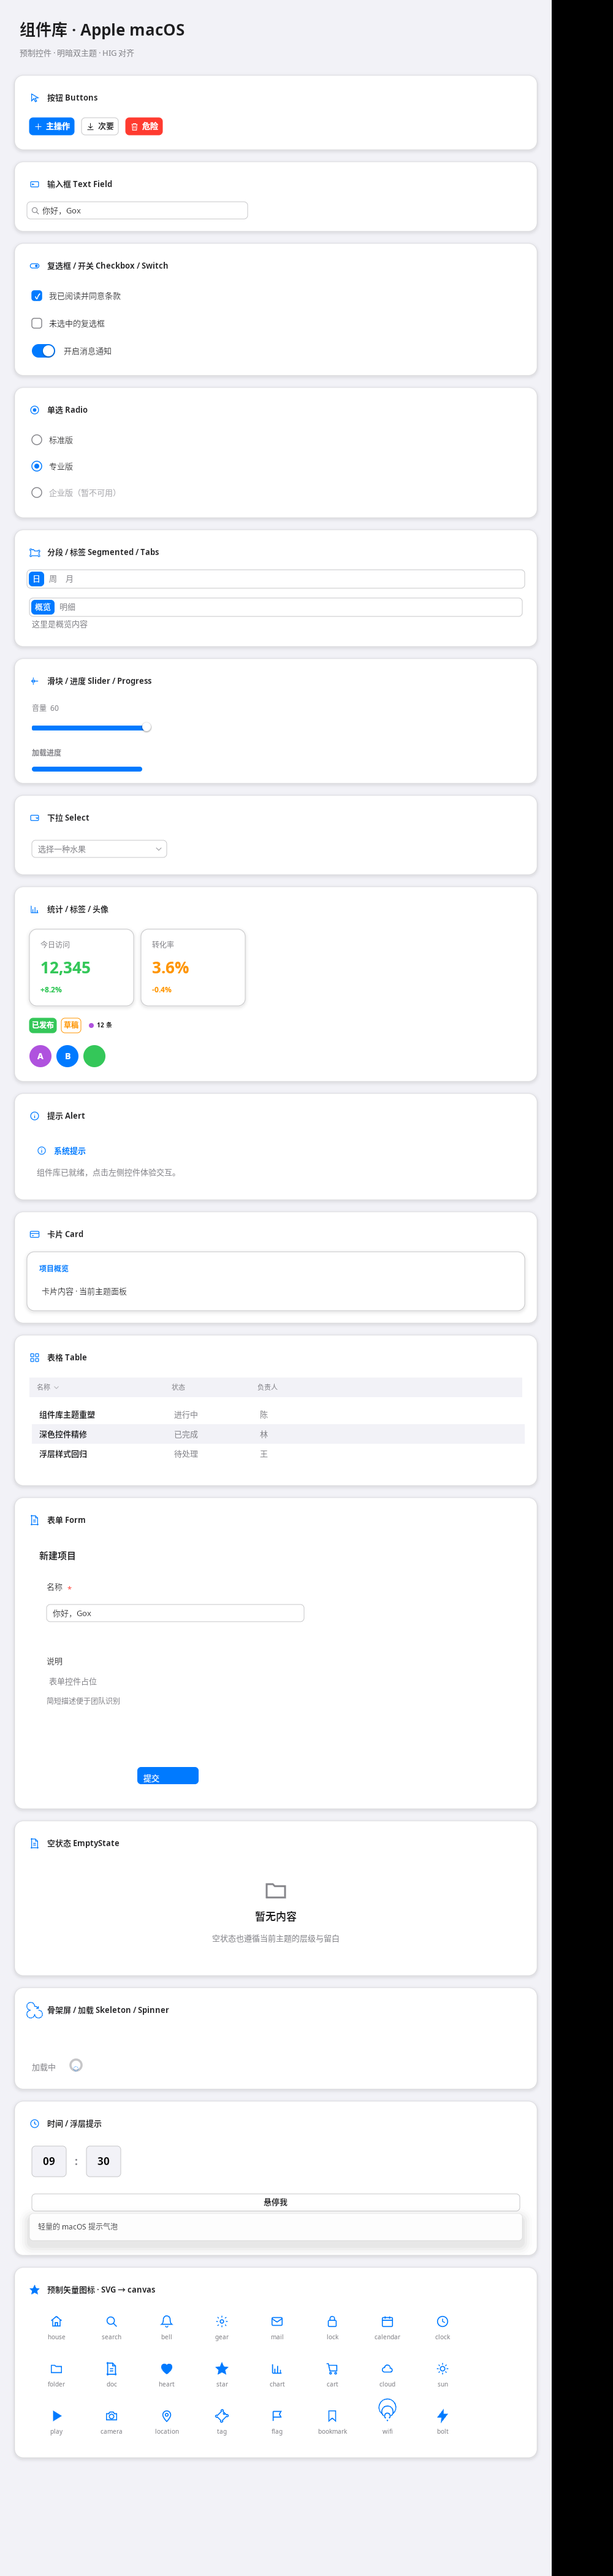
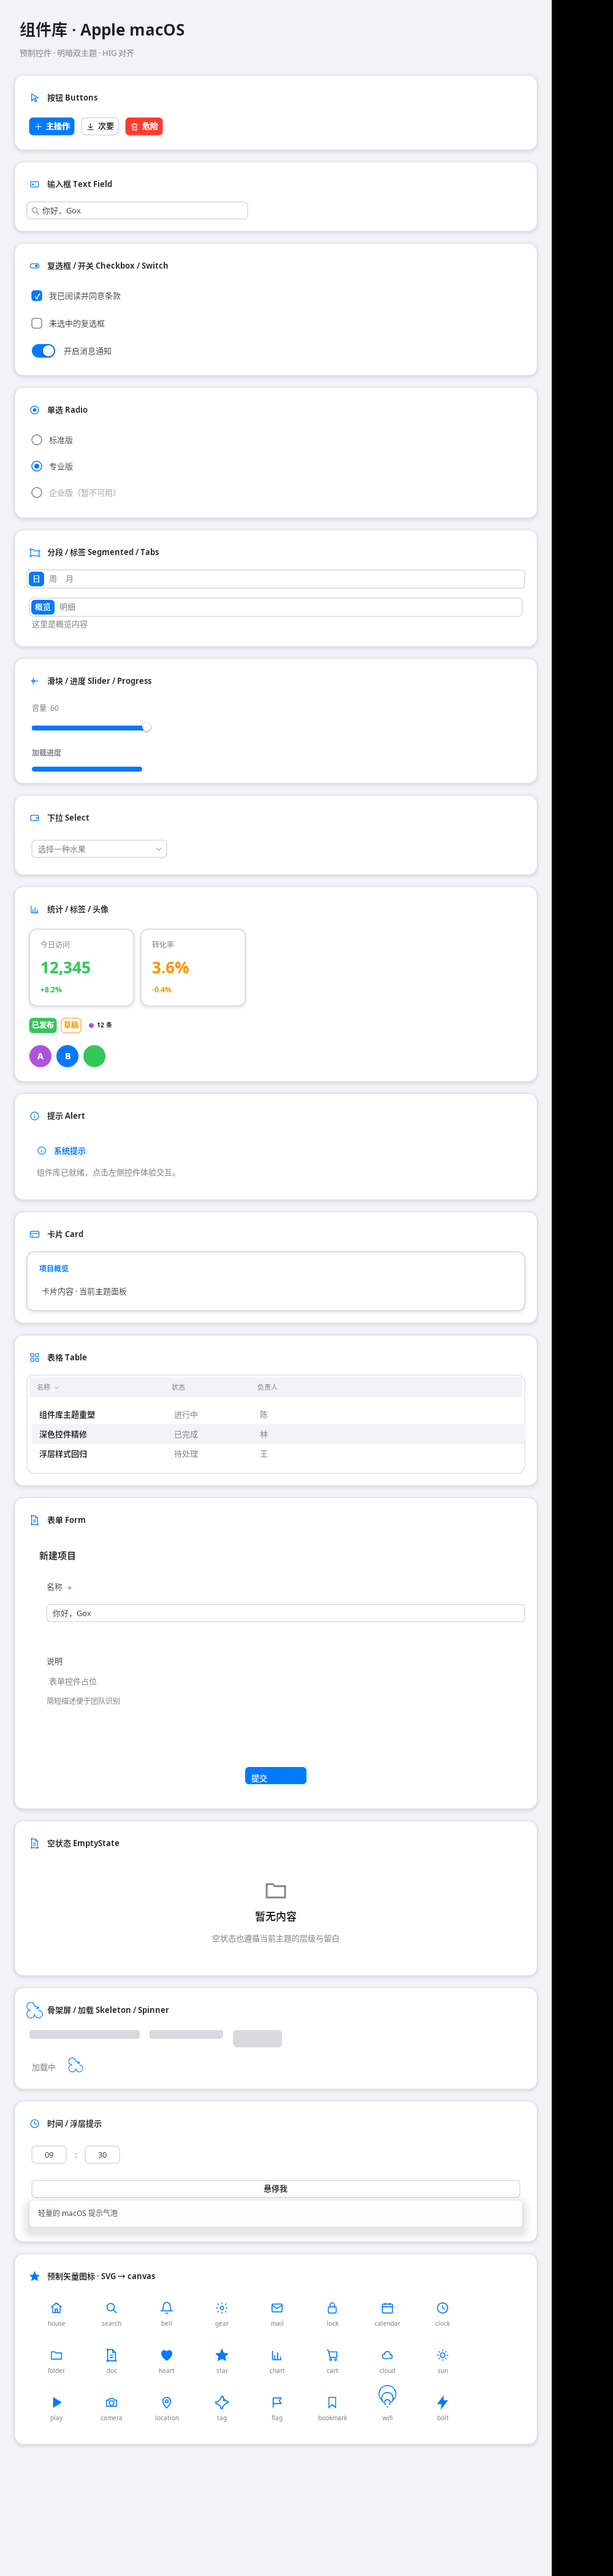
fix(widgets): 修复骨架屏/时间选择器/表格圆角与表单按钮居中

diff --git a/widgets/timepicker.go b/widgets/timepicker.go
@@ -171,7 +171,7 @@ func TimePicker(props gxscene.Props) *gxscene.Instance {
 		if i < len(segments)-1 {
 			ops = append(ops,
 				el("span"), attr("color", ThemeMuted),
-				attr("font-size", FontTitle2), attr("weight", "bold"),
+				attr("font-size", FontBody),
 				gxscene.Op{Code: gxscene.OpChildText, Arg: ":"}, closeEl(),
 			)
 		}
@@ -192,30 +192,33 @@ func TimePicker(props gxscene.Props) *gxscene.Instance {
 }
 
 // timeSegmentTrigger 一个段触发器：点击时把 openSeg 设为该段(+1)或关闭(0)。
-// 视觉：柔和填充块 + 大圆角，当前打开的段用强调色描边与淡色底，数字字号放大。
+// 视觉对齐 macOS NSDatePicker：输入底 + 细描边 + 常规字重数字 + 控件高度，
+// 当前打开的段用强调色描边强调；不像按钮那样用粗重填充块和放大粗体。
 func timeSegmentTrigger(seg timeSegment, text func() string, width, tone string, openSeg signal.Signal[int], uid string) *gxscene.Instance {
 	const (
 		clickSlot = iota
 		textSlot
 		bgSlot
 		borderSlot
+		colorSlot
 		nSlots
 	)
 	ops := []gxscene.Op{
 		el("div"), attr("gx-role", "time-segment"),
 		attr("gx-time-segment", fmt.Sprintf("%d", seg)),
-		attr("width", width),
+		attr("width", width), attr("height", ControlHeight),
 		attr("border-width", "1"), attr("border-radius", RadiusControl),
-		attr("padding", "10"),
 		attr("align-items", "center"), attr("justify-content", "center"),
 		gxscene.Op{Code: gxscene.OpDynAttr, Key: "bg", Slot: bgSlot},
 		gxscene.Op{Code: gxscene.OpDynAttr, Key: "border", Slot: borderSlot},
 		gxscene.Op{Code: gxscene.OpEvent, Key: "onClick", Slot: clickSlot},
-		el("span"), attr("font-size", FontTitle2), attr("weight", "bold"),
+		el("span"), attr("font-size", FontBody),
+		gxscene.Op{Code: gxscene.OpDynAttr, Key: "color", Slot: colorSlot},
 		gxscene.Op{Code: gxscene.OpDynChild, Slot: textSlot}, closeEl(),
 		closeEl(),
 	}
 	isOpen := func() bool { return openSeg() == int(seg)+1 }
+	textColor := tkText()
 	return gxscene.Render(gxscene.Template{Ops: ops, N: nSlots},
 		func() any {
 			return gxscene.Handler(func(gxscene.EventContext) {
@@ -228,18 +231,16 @@ func timeSegmentTrigger(seg timeSegment, text func() string, width, tone string,
 			})
 		},
 		func() any { return text() }, // 动态文本：value 变化时刷新
-		func() any { // 打开段用强调色淡底，其余用控件填充
-			if isOpen() {
-				return tone
-			}
-			return ThemeFill
+		func() any { // 统一用输入底；打开段保持同底，靠描边区分（macOS 字段风格）
+			return ThemeInputBg
 		},
-		func() any { // 打开段描边强调色，其余细描边
+		func() any { // 打开段描边强调色，其余常规细描边
 			if isOpen() {
 				return tone
 			}
 			return ThemeBorder
 		},
+		func() any { return textColor() }, // 数字用主题主文字色（深色主题下为浅色）
 	)
 }
 

diff --git a/widgets/component_icons_test.go b/widgets/component_icons_test.go
@@ -109,6 +109,48 @@ func TestTableSortUsesVectorChevron(t *testing.T) {
 	}
 }
 
+func TestSpinnerUsesVectorIcon(t *testing.T) {
+	// Spinner 用矢量 reload 图标，不再用 ◌ 字符，且子树里没有绘制字符的节点。
+	inst := Spinner(gxscene.Props{"size": 18})
+	inst.BindReactive(syncEffect)
+	if !hasVectorIcon(inst.Root()) {
+		t.Error("Spinner 应渲染矢量环形图标")
+	}
+	text := gxscene.TextBackend{}.Paint(inst.Root())
+	if containsStr(text, "◌") {
+		t.Errorf("Spinner 不应再用 ◌ 字符: %q", text)
+	}
+}
+
+func TestSkeletonHasVisibleFill(t *testing.T) {
+	// 无 tone 时骨架条用专用令牌色（不再是空串导致不可见）。
+	inst := Skeleton(gxscene.Props{"width": "180", "height": "14"})
+	inst.BindReactive(syncEffect)
+	if got := inst.Root().Props["bg"]; got == "" {
+		t.Error("Skeleton 默认底色不应为空（否则骨架条不可见）")
+	}
+	// 明暗两套令牌色都非空且明显可见。
+	if LightTheme.Skeleton == "" || DarkTheme.Skeleton == "" {
+		t.Error("明暗主题都必须定义 Skeleton 令牌")
+	}
+}
+
+func TestTimePickerSegmentTextHasThemeColor(t *testing.T) {
+	// 时间段数字节点应带 color 属性（深色主题下为浅色文字），避免继承默认暗色。
+	inst := TimePicker(gxscene.Props{
+		"value":    func() any { return "09:30" },
+		"onChange": BindValue(func(string) {}),
+	})
+	inst.BindReactive(syncEffect)
+	segs := findAllByRole(inst.Root(), "time-segment")
+	if len(segs) == 0 {
+		t.Fatal("无时间段节点")
+	}
+	if got := findAttrDeep(segs[0], "color"); got == "" {
+		t.Error("时间段数字应有明确的主题文字色")
+	}
+}
+
 func TestSelectUsesVectorIcons(t *testing.T) {
 	state := NewPopoverState(false)
 	opts := []Option{{Label: "A", Value: "a"}, {Label: "B", Value: "b"}}

diff --git a/widgets/theme.go b/widgets/theme.go
@@ -36,6 +36,7 @@ type Theme struct {
 	GroupedBg string // 分组底（比 Bg 更深一层）
 	Panel     string // 卡片/面板底（elevated）
 	PanelAlt  string // 次级面板/斑马纹
+	Skeleton  string // 骨架屏占位块（比次级填充略深，保证在卡片上可见）
 	InputBg   string // 输入框底
 	Border    string // 常规描边（opaque separator）
 	Border2   string // 更亮描边（separator）
@@ -103,6 +104,7 @@ type Theme struct {
 var DarkTheme = Theme{
 	Name: "dark",
 	Bg: AppleWindowBg, GroupedBg: AppleGroupedBg, Panel: AppleElevated, PanelAlt: AppleFill,
+	Skeleton: AppleFill2,
 	InputBg: AppleInputBg, Border: AppleSeparator, Border2: AppleSeparator2, Hairline: AppleHairline,
 	Material: AppleMaterialThick, Scrim: AppleScrim,
 	Text: AppleLabel, Muted: AppleLabel2, Faint: AppleLabel3, OnAccent: "#ffffff",
@@ -123,6 +125,7 @@ var DarkTheme = Theme{
 var LightTheme = Theme{
 	Name: "light",
 	Bg: "#ffffff", GroupedBg: "#f2f2f7", Panel: "#ffffff", PanelAlt: "#f2f2f7",
+	Skeleton: "#d8d8dd",
 	InputBg: "#ffffff", Border: "#c6c6c8", Border2: "#d1d1d6", Hairline: LightHairline,
 	Material: "#ffffffeb", Scrim: "#0000004d",
 	Text: "#1d1d1f", Muted: "#86868b", Faint: "#aeaeb2", OnAccent: "#ffffff",
@@ -170,6 +173,7 @@ func syncLegacyThemeTokens(t Theme) {
 	ThemeGrouped = t.GroupedBg
 	ThemePanel = t.Panel
 	ThemeFill = t.PanelAlt
+	ThemeSkeleton = t.Skeleton
 	ThemeBorder = t.Border
 	ThemeBorder2 = t.Border2
 	ThemeHairline = t.Hairline
@@ -248,6 +252,8 @@ func themeToken(t Theme, name string) string {
 		return t.Panel
 	case "panelalt", "zebra":
 		return t.PanelAlt
+	case "skeleton":
+		return t.Skeleton
 	case "inputbg", "input":
 		return t.InputBg
 	case "border":

diff --git a/widgets/display.go b/widgets/display.go
@@ -253,21 +253,26 @@ func Tag(props gxscene.Props) *gxscene.Instance {
 	)
 }
 
-// Spinner 预制加载指示器（旋转环用多层圆点近似，避免依赖 transform 动画）。
-// props: size(直径,默认 24), tone。渲染为一个圆环背景 + 高亮扇区色块。
+// Spinner 预制加载指示器。props: size(直径,默认 24), tone。
+//
+// 用预制矢量 reload 图标（环形箭头）表达"加载中"，替代原先的 ◌ 字符——
+// 字符在不同字体下会渲染成奇怪的小图形，矢量图标跨后端一致且清晰。
+// 外层不再画圆环描边，避免矢量图标与描边叠成两个圆圈。
 func Spinner(props gxscene.Props) *gxscene.Instance {
 	tone := gxscene.Get[string](props, "tone")
 	size := propFloat(props, "size", 24)
-	d := fmtNum(size)
+	toneName := tone()
+	if toneName == "" {
+		toneName = "accent"
+	}
 	ops := []gxscene.Op{
 		el("span"), attr("gx-role", "spinner"),
-		attr("width", d), attr("height", d),
-		attr("border-radius", fmtNum(size/2)),
-		attr("border-width", fmtNum(size/5)),
-		attr("border", ThemeBorder), dynAttr("color", 0),
-		gxscene.Op{Code: gxscene.OpChildText, Arg: "◌"}, closeEl(),
+		attr("width", fmtNum(size)), attr("height", fmtNum(size)),
+		attr("align-items", "center"), attr("justify-content", "center"),
+		gxscene.Op{Code: gxscene.OpComp, Arg: "SpinnerIcon", Slot: 0},
+		closeEl(),
 	}
 	return gxscene.Render(gxscene.Template{Ops: ops, N: 1},
-		func() any { return toneColor(tone()) },
+		func() any { return iconNode("reload", size*0.85, toneName) },
 	)
 }

diff --git a/widgets/feedback.go b/widgets/feedback.go
@@ -124,15 +124,20 @@ func EmptyState(props gxscene.Props) *gxscene.Instance {
 }
 
 // Skeleton 骨架屏占位块。props: width, height, tone, radius。
+//
+// 骨架色用专用令牌 ThemeSkeleton（浅色 #d8d8dd / 深色 #48484a），比次级填充
+// 略深，保证在卡片底上清晰可见又不过分抢眼；通过 dynAttr 接 UseToken getter，
+// 主题切换时自动重绘。tone 显式传入时优先用调用方颜色。
 func Skeleton(props gxscene.Props) *gxscene.Instance {
 	tone := gxscene.Get[string](props, "tone")
 	width := gxscene.Get[string](props, "width")
 	height := gxscene.Get[string](props, "height")
 	radius := gxscene.Get[string](props, "radius")
 
+	const bgSlot = 0
 	ops := []gxscene.Op{
 		el("div"), attr("gx-role", "skeleton"),
-		attr("bg", resolveColor(tone())), attr("opacity", "0.55"),
+		gxscene.Op{Code: gxscene.OpDynAttr, Key: "bg", Slot: bgSlot},
 	}
 	if w := width(); w != "" {
 		ops = append(ops, attr("width", w))
@@ -147,5 +152,13 @@ func Skeleton(props gxscene.Props) *gxscene.Instance {
 		r = RadiusXSmall
 	}
 	ops = append(ops, attr("border-radius", r), closeEl())
-	return gxscene.Render(gxscene.Template{Ops: ops, N: 0})
+	fallback := tkSkeleton()
+	return gxscene.Render(gxscene.Template{Ops: ops, N: 1},
+		func() any {
+			if c := tone(); c != "" {
+				return resolveColor(c)
+			}
+			return fallback()
+		},
+	)
 }

diff --git a/examples/widget-showcase/main.go b/examples/widget-showcase/main.go
@@ -248,14 +248,15 @@ func buildTree() *gxscene.Instance {
 	})
 
 	formInput := widgets.Input(gxscene.Props{
-		"value": func() any { return text() }, "placeholder": "项目名称", "width": "420",
+		"value": func() any { return text() }, "placeholder": "项目名称", "width": str(W - 120),
 	})
-	// 表单卡片收窄到内容宽度：字段撑满、按钮居中于同一内容列，
-	// 避免"字段在左、按钮飘在卡片正中"的轴线割裂。
+	// 表单卡片撑满分组内容宽（group 内容 = W-88）：字段左对齐撑满，
+	// 提交按钮在卡片正中（form-submit-wrap 的 justify-center），
+	// 与 macOS 系统设置里"表单 + 居中主按钮"的观感一致。
 	form := widgets.Form(gxscene.Props{
-		"title": func() any { return "新建项目" }, "width": "460",
+		"title": func() any { return "新建项目" }, "width": str(W - 88),
 		"children": func() any {
-			return col("428", "12",
+			return col(str(W-120), "12",
 				widgets.FormItem(gxscene.Props{
 					"label": "名称", "name": "name", "required": true,
 					"children": func() any { return formInput },

diff --git a/widgets/table.go b/widgets/table.go
@@ -150,10 +150,12 @@ func Table(props gxscene.Props) *gxscene.Instance {
 	ops := []gxscene.Op{
 		el("div"), attr("gx-role", "table"),
 		attr("flex-direction", "column"),
-		// macOS NSTableView：表格本身只是一张浅底平面，不额外套卡片阴影/描边
-		// （外层 group 已提供卡片层次，避免"双层卡片"）。仅用一圈 hairline
-		// 收边 + 圆角，贴近原生列表视图的克制观感。
-		attr("bg", ThemePanel), attr("border-radius", RadiusSmall),
+		// macOS NSTableView：整表是一张带圆角与细描边的平面，overflow=hidden
+		// 让表头底与斑马纹都被圆角裁切，避免在四角溢出方角。不套阴影，
+		// 外层 group 已提供卡片层次。
+		attr("bg", ThemePanel), attr("border-radius", RadiusCard),
+		attr("border", ThemeBorder2), attr("border-width", "1"),
+		attr("overflow", "hidden"),
 	}
 	if w := width(); w != "" {
 		ops = append(ops, attr("width", w))

diff --git a/widgets/tokens.go b/widgets/tokens.go
@@ -32,6 +32,7 @@ func tkBg() func() string      { return UseToken("bg") }
 func tkGrouped() func() string { return UseToken("grouped") }
 func tkPanel() func() string   { return UseToken("panel") }
 func tkPanelAlt() func() string { return UseToken("panelalt") }
+func tkSkeleton() func() string { return UseToken("skeleton") }
 func tkInput() func() string   { return UseToken("input") }
 
 // tkBorder/tkBorder2/tkHairline 描边类 getter。

diff --git a/widgets/widgets.go b/widgets/widgets.go
@@ -46,6 +46,7 @@ var (
 	ThemeGrouped  = AppleGroupedBg  // 分组底
 	ThemePanel    = AppleElevated   // 卡片底
 	ThemeFill     = AppleFill       // 控件填充 / 次级底
+	ThemeSkeleton = AppleFill2      // 骨架屏占位块
 	ThemeBorder   = AppleSeparator  // 常规描边
 	ThemeBorder2  = AppleSeparator2 // 更亮描边 / 分隔线
 	ThemeHairline = AppleHairline   // 高光细描边（浮层）
